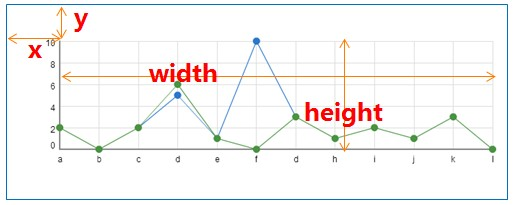
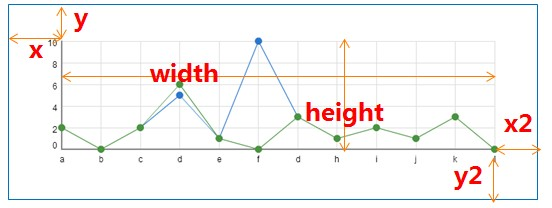
网格自适应优化

diff --git a/doc/doc.html b/doc/doc.html
@@ -1198,22 +1198,32 @@ feature : {
                         <tr>
                             <td> {number} x </td>
                             <td> 80 </td>
-                            <td> 直角坐标系内绘图网格起始横坐标，数值单位px </td>
+                            <td> 直角坐标系内绘图网格左上角横坐标，数值单位px </td>
                         </tr>
                         <tr>
                             <td> {number} y </td>
                             <td> 60 </td>
-                            <td> 直角坐标系内绘图网格起始纵坐标，数值单位px </td>
+                            <td> 直角坐标系内绘图网格左上角纵坐标，数值单位px </td>
+                        </tr>
+                        <tr>
+                            <td> {number} x2 </td>
+                            <td> 80 </td>
+                            <td> 直角坐标系内绘图网格右下角横坐标，数值单位px </td>
+                        </tr>
+                        <tr>
+                            <td> {number} y2 </td>
+                            <td> 60 </td>
+                            <td> 直角坐标系内绘图网格右下角纵坐标，数值单位px </td>
                         </tr>
                         <tr>
                             <td> {number} width </td>
                             <td> 自适应 </td>
-                            <td> 直角坐标系内绘图网格（不含坐标轴）宽度，默认为总宽度 - 2 * x，数值单位px，见下图。 </td>
+                            <td> 直角坐标系内绘图网格（不含坐标轴）宽度，默认为总宽度 - x - x2，数值单位px，指定width后将忽略x2，见下图。 </td>
                         </tr>
                         <tr>
                             <td> {number} height </td>
                             <td> 自适应 </td>
-                            <td> 直角坐标系内绘图网格（不含坐标轴）高度，默认为总宽度 - 2 * y，数值单位px，见下图。 </td>
+                            <td> 直角坐标系内绘图网格（不含坐标轴）高度，默认为总宽度 - y - y2，数值单位px，指定height后将忽略y2，见下图。 </td>
                         </tr>
                         <tr>
                             <td> {color} backgroundColor </td>

diff --git a/src/component/grid.js b/src/component/grid.js
@@ -45,16 +45,18 @@ define(function (require) {
             var gridOption = option.grid;
             _x = gridOption.x;
             _y = gridOption.y;
+            var x2 = gridOption.x2;
+            var y2 = gridOption.y2;
 
             if (typeof gridOption.width == 'undefined') {
-                _width = zr.getWidth() - (_x * 2);
+                _width = zr.getWidth() - _x - x2;
             }
             else {
                 _width = gridOption.width;
             }
 
             if (typeof gridOption.height == 'undefined') {
-                _height = zr.getHeight() - (_y * 2);
+                _height = zr.getHeight() - _y - y2;
             }
             else {
                 _height = gridOption.height;

diff --git a/src/config.js b/src/config.js
@@ -213,8 +213,10 @@ define(function() {
         grid: {
             x: 80,
             y: 60,
-            // width: {totalWidth} - (2 * x),
-            // height: {totalHeight} - (2 * y)
+            x2: 80,
+            y2: 60,
+            // width: {totalWidth} - x - x2,
+            // height: {totalHeight} - y - y2,
             backgroundColor: '#fff',
             borderWidth: 1,
             borderColor: '#ccc'
